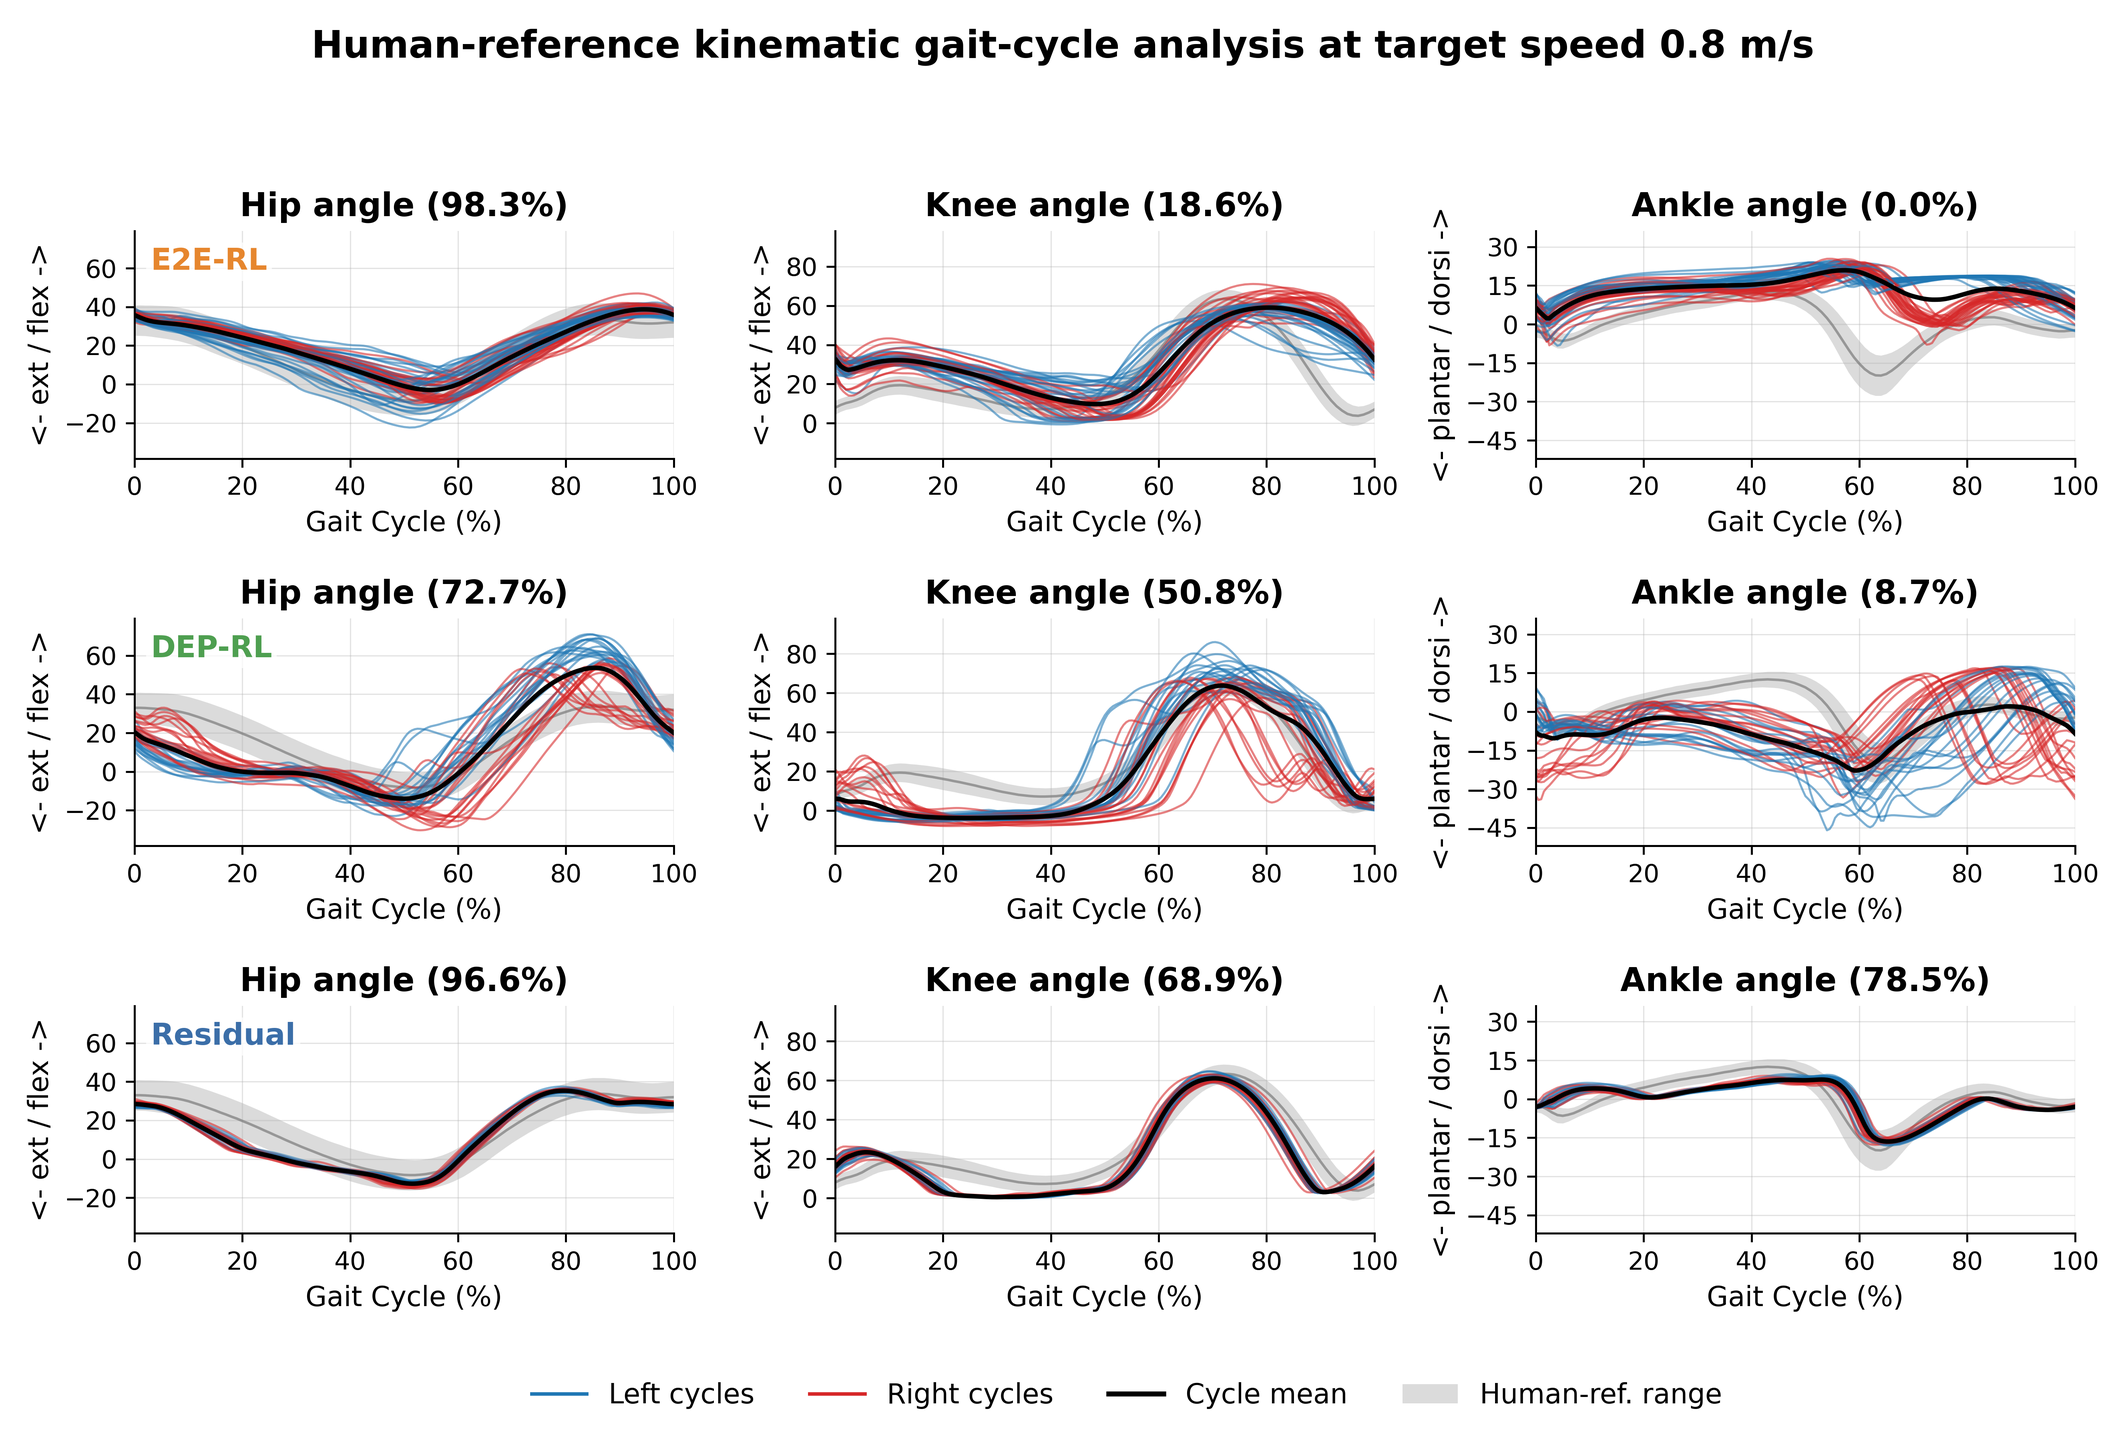
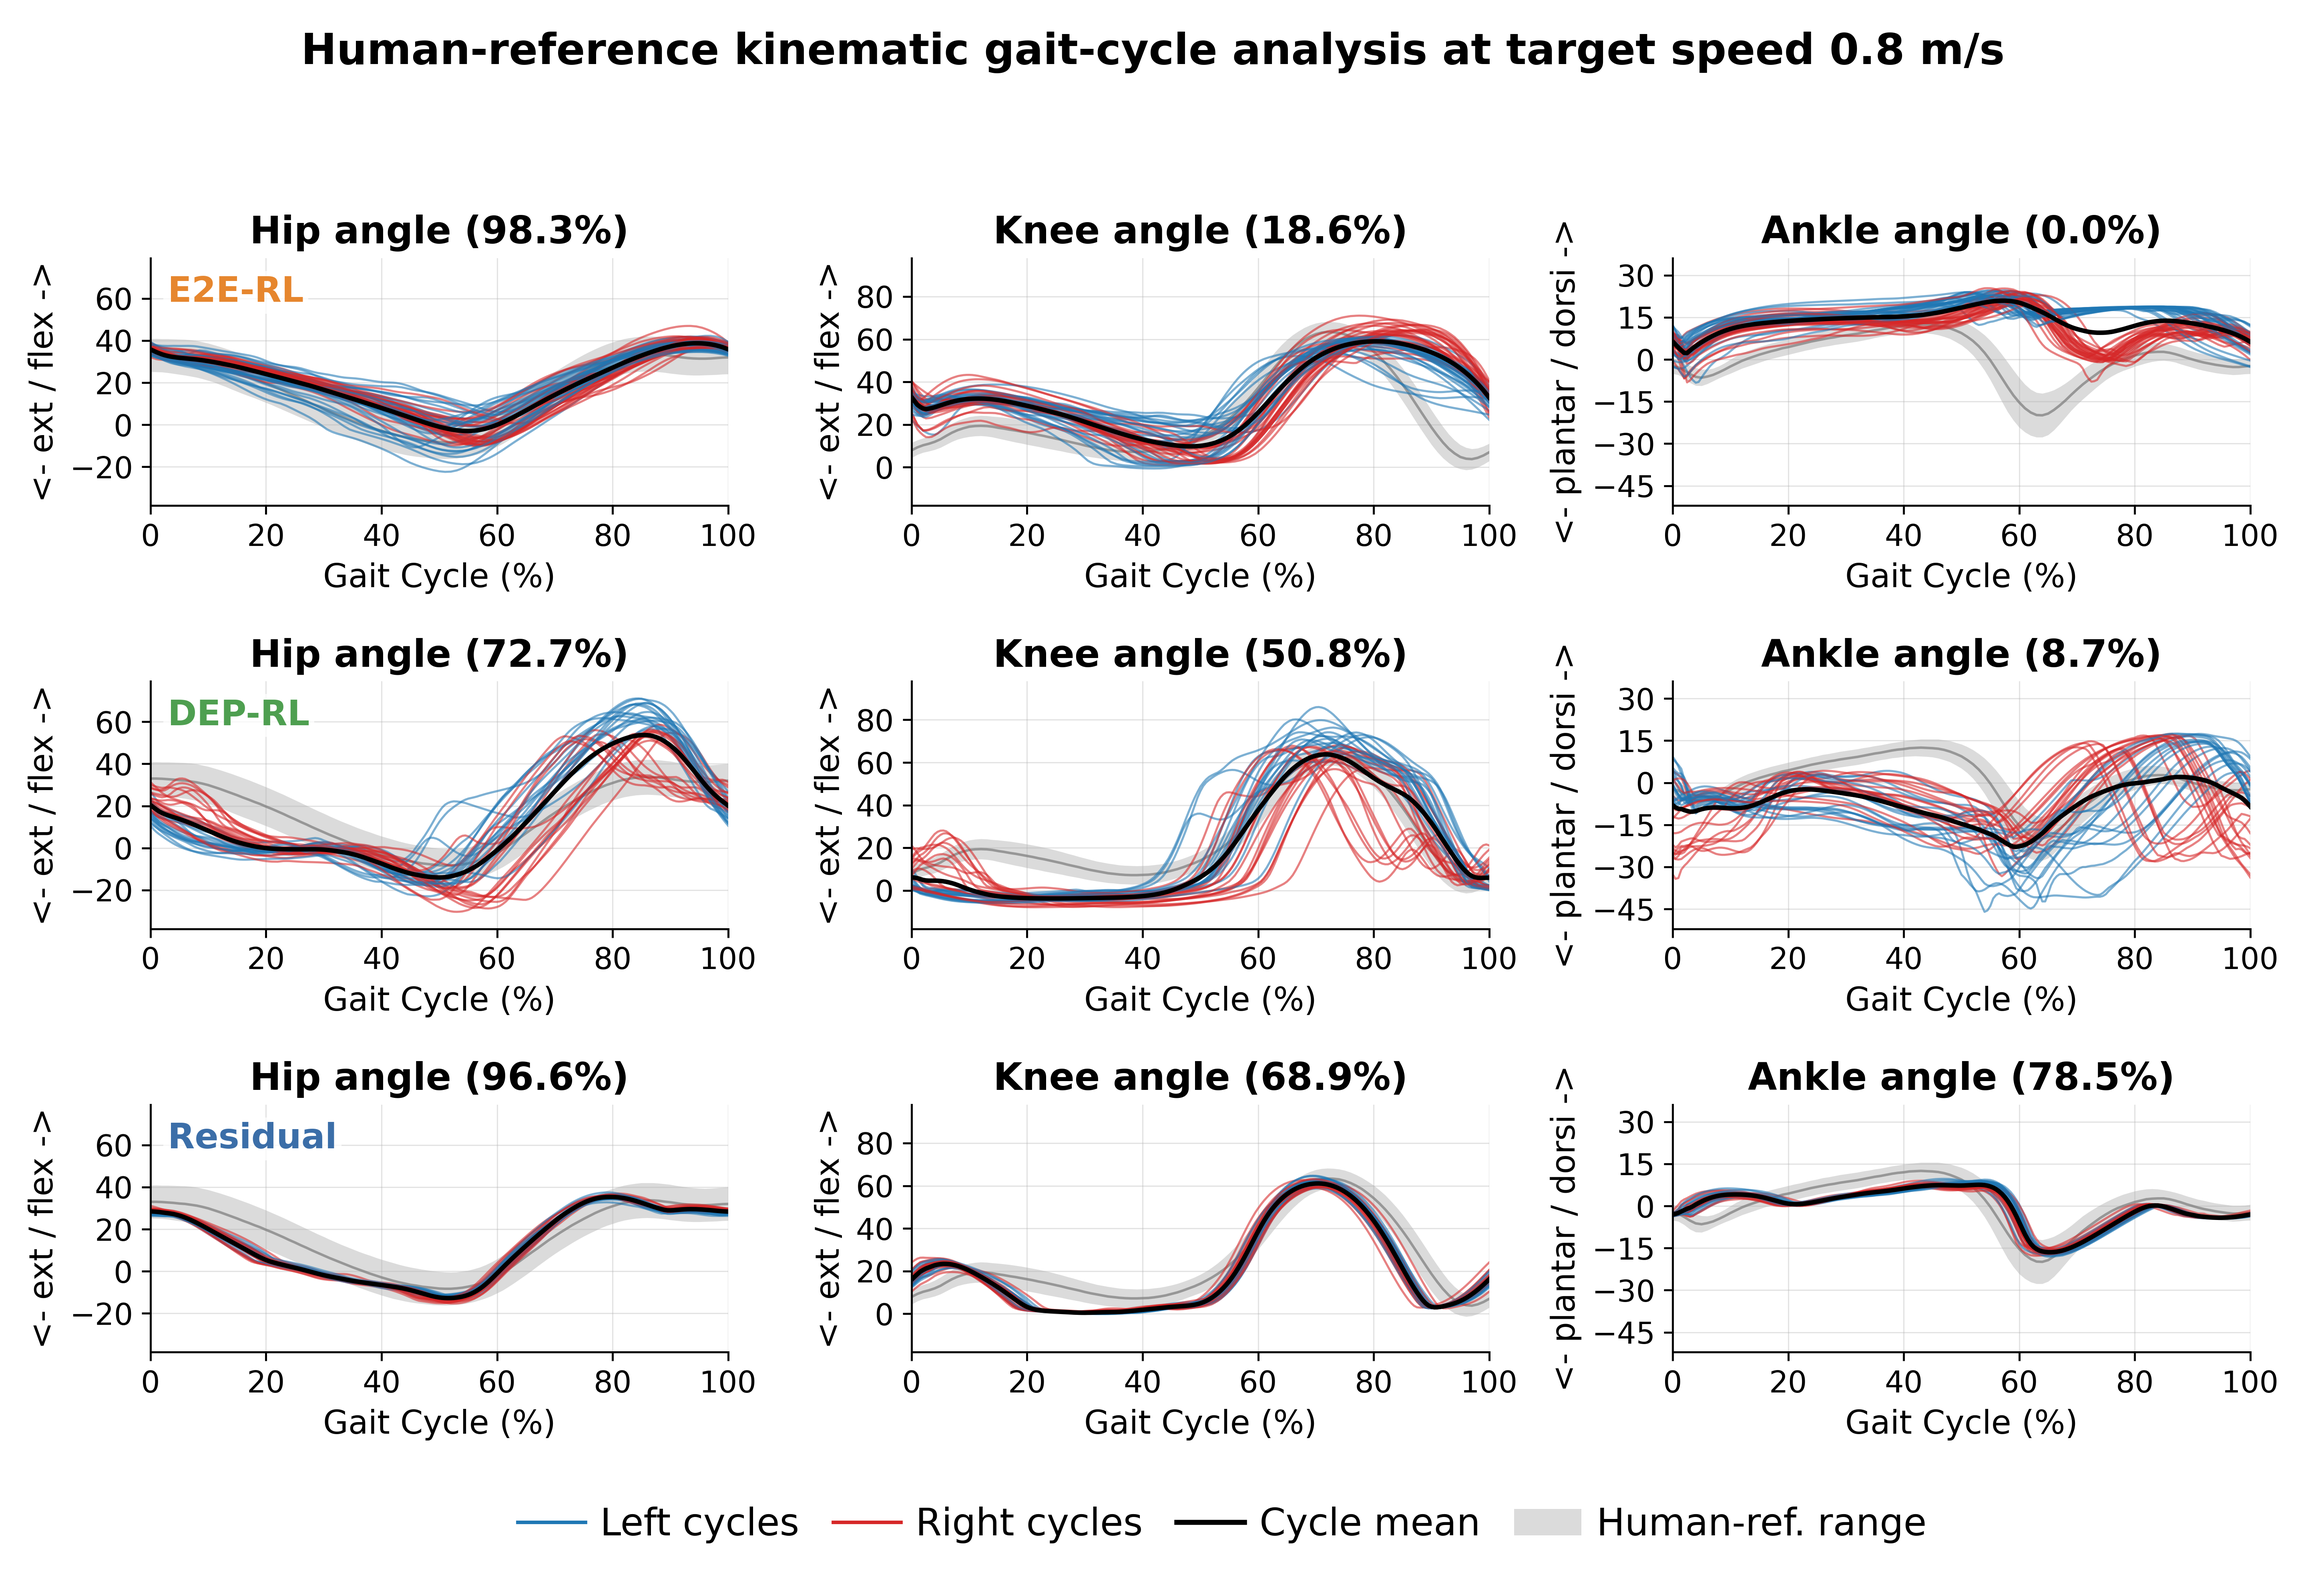
Further enlarge kinematic figure labels

diff --git a/main.tex b/main.tex
@@ -604,9 +604,10 @@ waveform observations are consistent with the knee and ankle scores in
 Table~\ref{tab:gait_similarity}.
 They also explain why the Residual-Reflex RL controller looks more repeatable in
 animation: the blue and red gait cycles occupy a narrower region, meaning that
-successive steps and the two legs follow more similar trajectories. For the
-direct muscle-control methods, the larger spread indicates that different steps
-within the same trial can use noticeably different joint coordination patterns.
+successive steps and the two legs follow more similar trajectories. For E2E-RL
+and DEP-RL, which directly output muscle-level actions, the larger waveform
+spread indicates less consistent joint coordination across steps within the same
+trial.
 GRF morphology is analyzed separately below because contact loading is not
 directly captured by joint-angle profiles alone.
 
@@ -672,8 +673,8 @@ The residual reflex representation also improved the regularity of the generated
 gait cycles. Table~\ref{tab:symmetry_variability} shows that Residual-Reflex RL
 consistently produced lower left--right waveform differences and lower stride
 time/length coefficients of variation than E2E-RL and DEP-RL. The largest
-differences occurred in ankle symmetry and stride variability, where the
-direct muscle-control methods produced visibly less repeatable cycles. These
+differences occurred in ankle symmetry and stride variability, where E2E-RL and
+DEP-RL produced visibly less repeatable cycles. These
 metrics support the visual observation that residual reflex modulation yields a
 more bilaterally symmetric and repeatable gait pattern, rather than merely
 producing occasional successful walking cycles.
